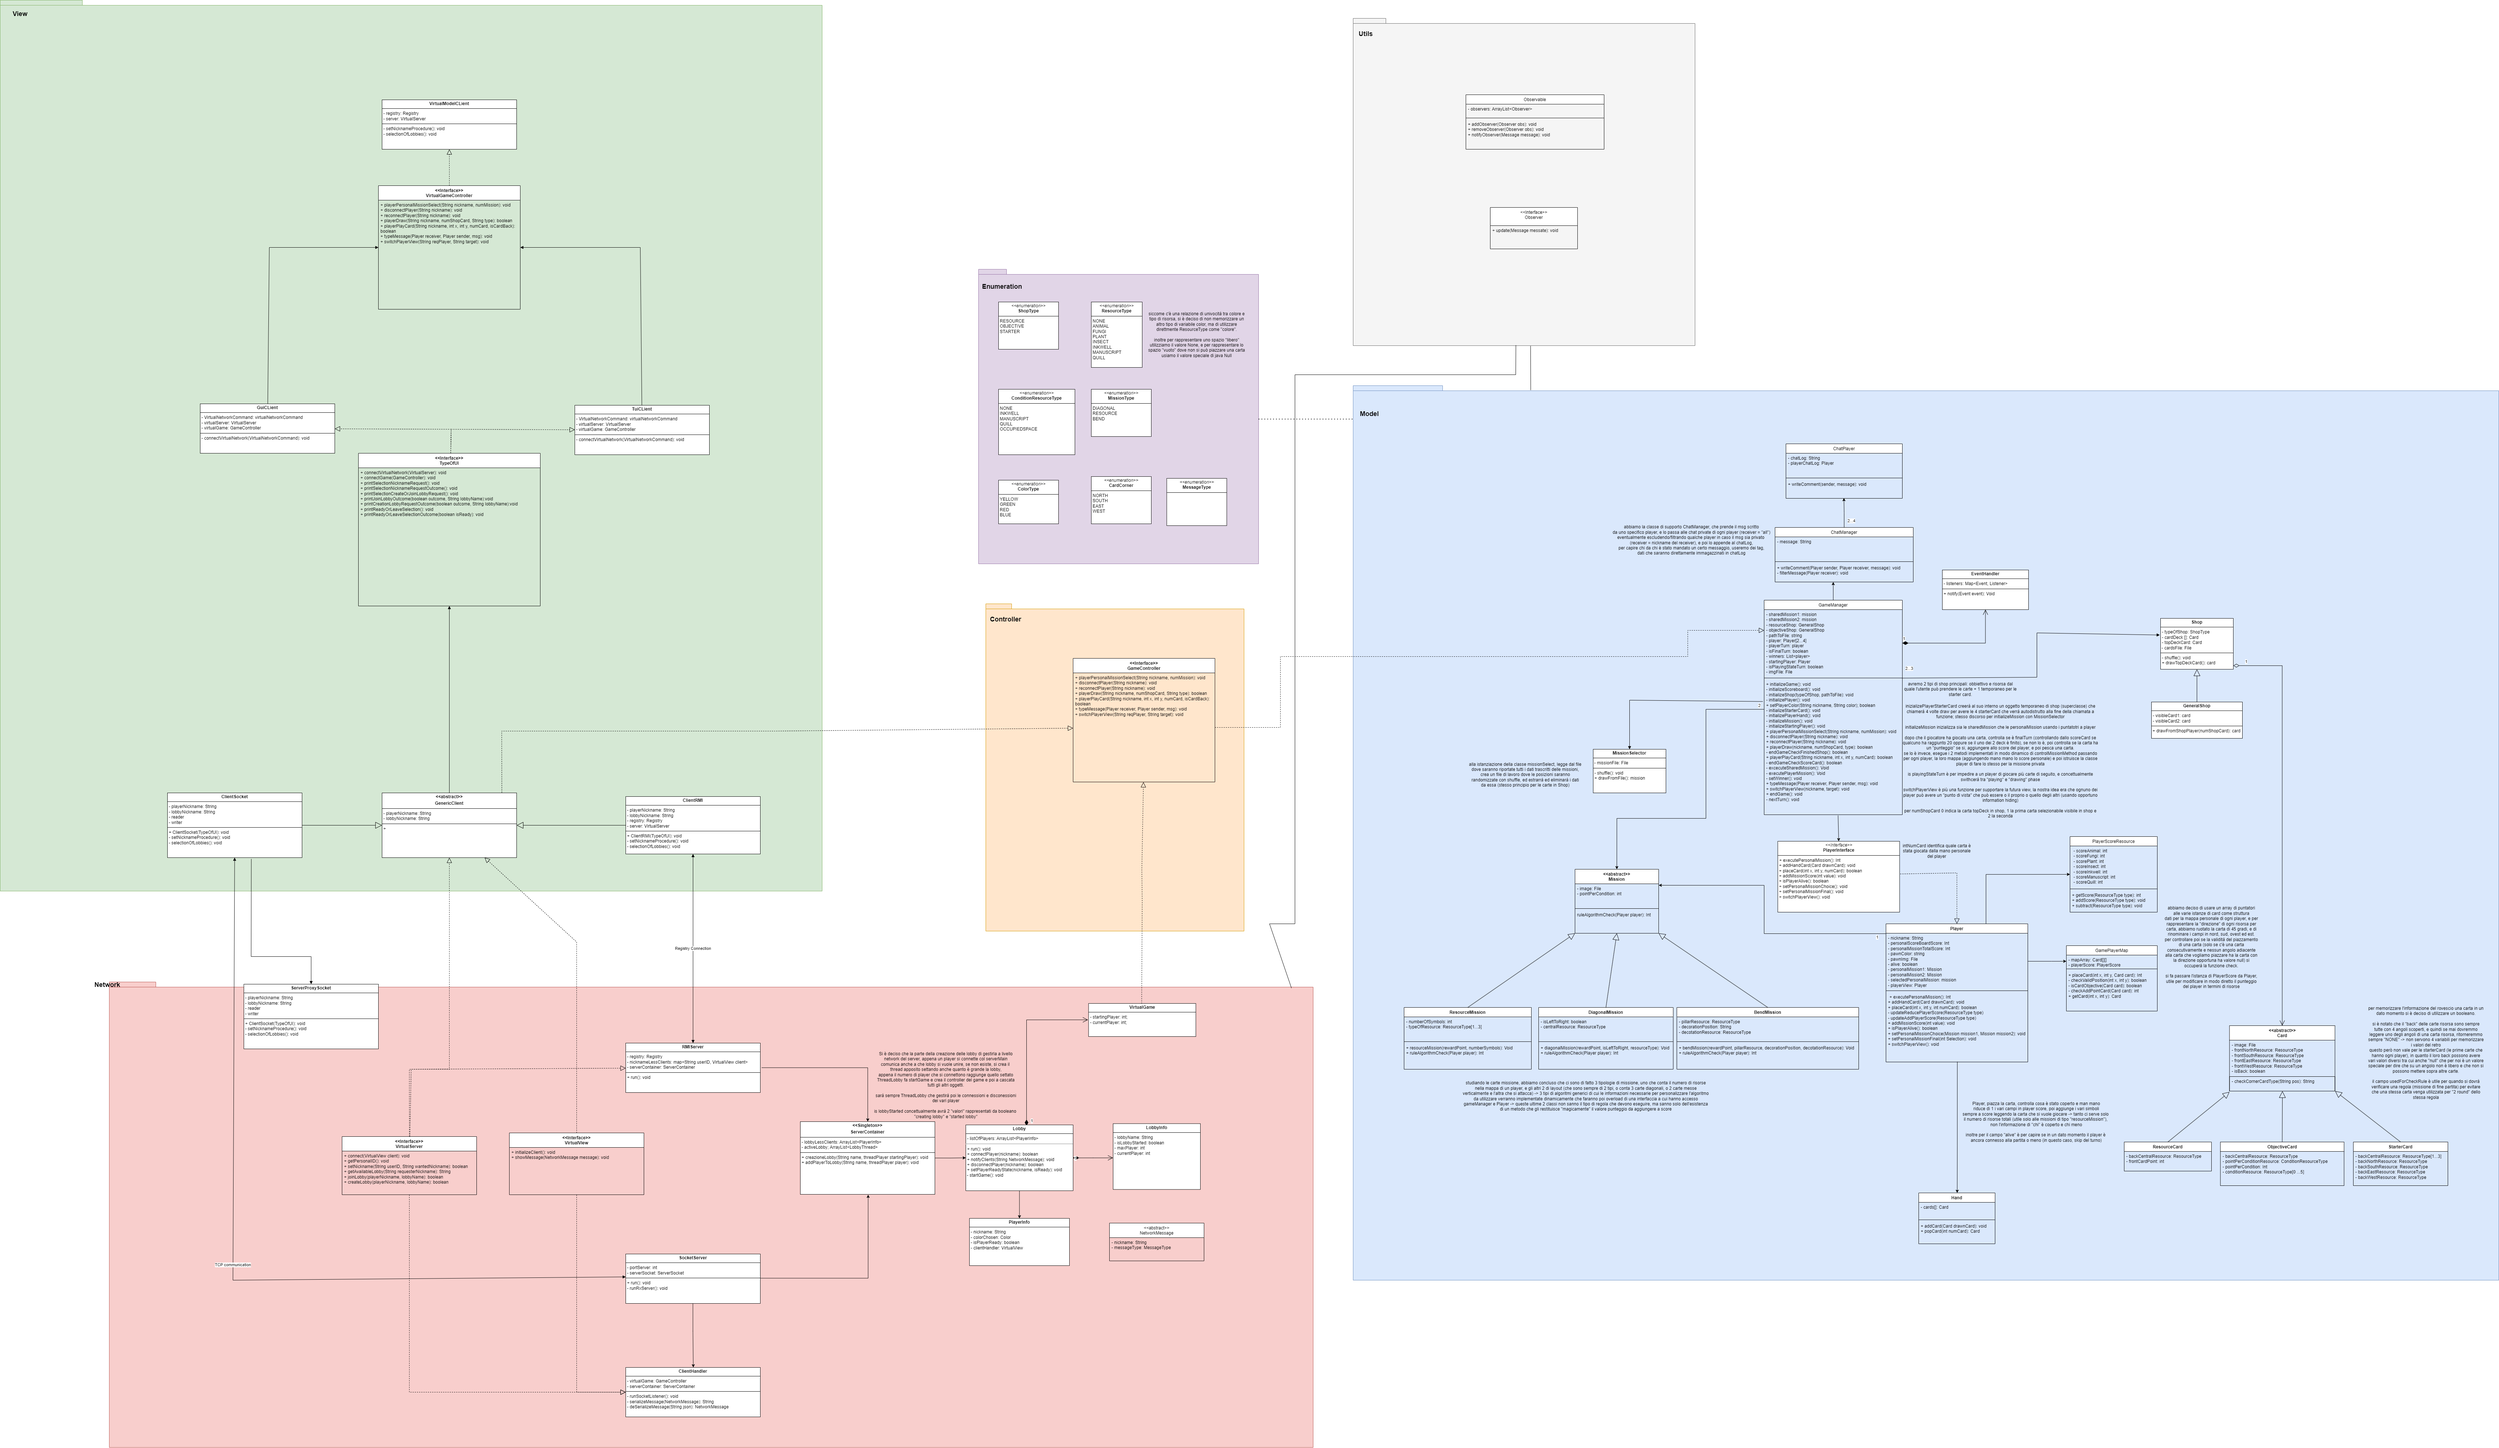
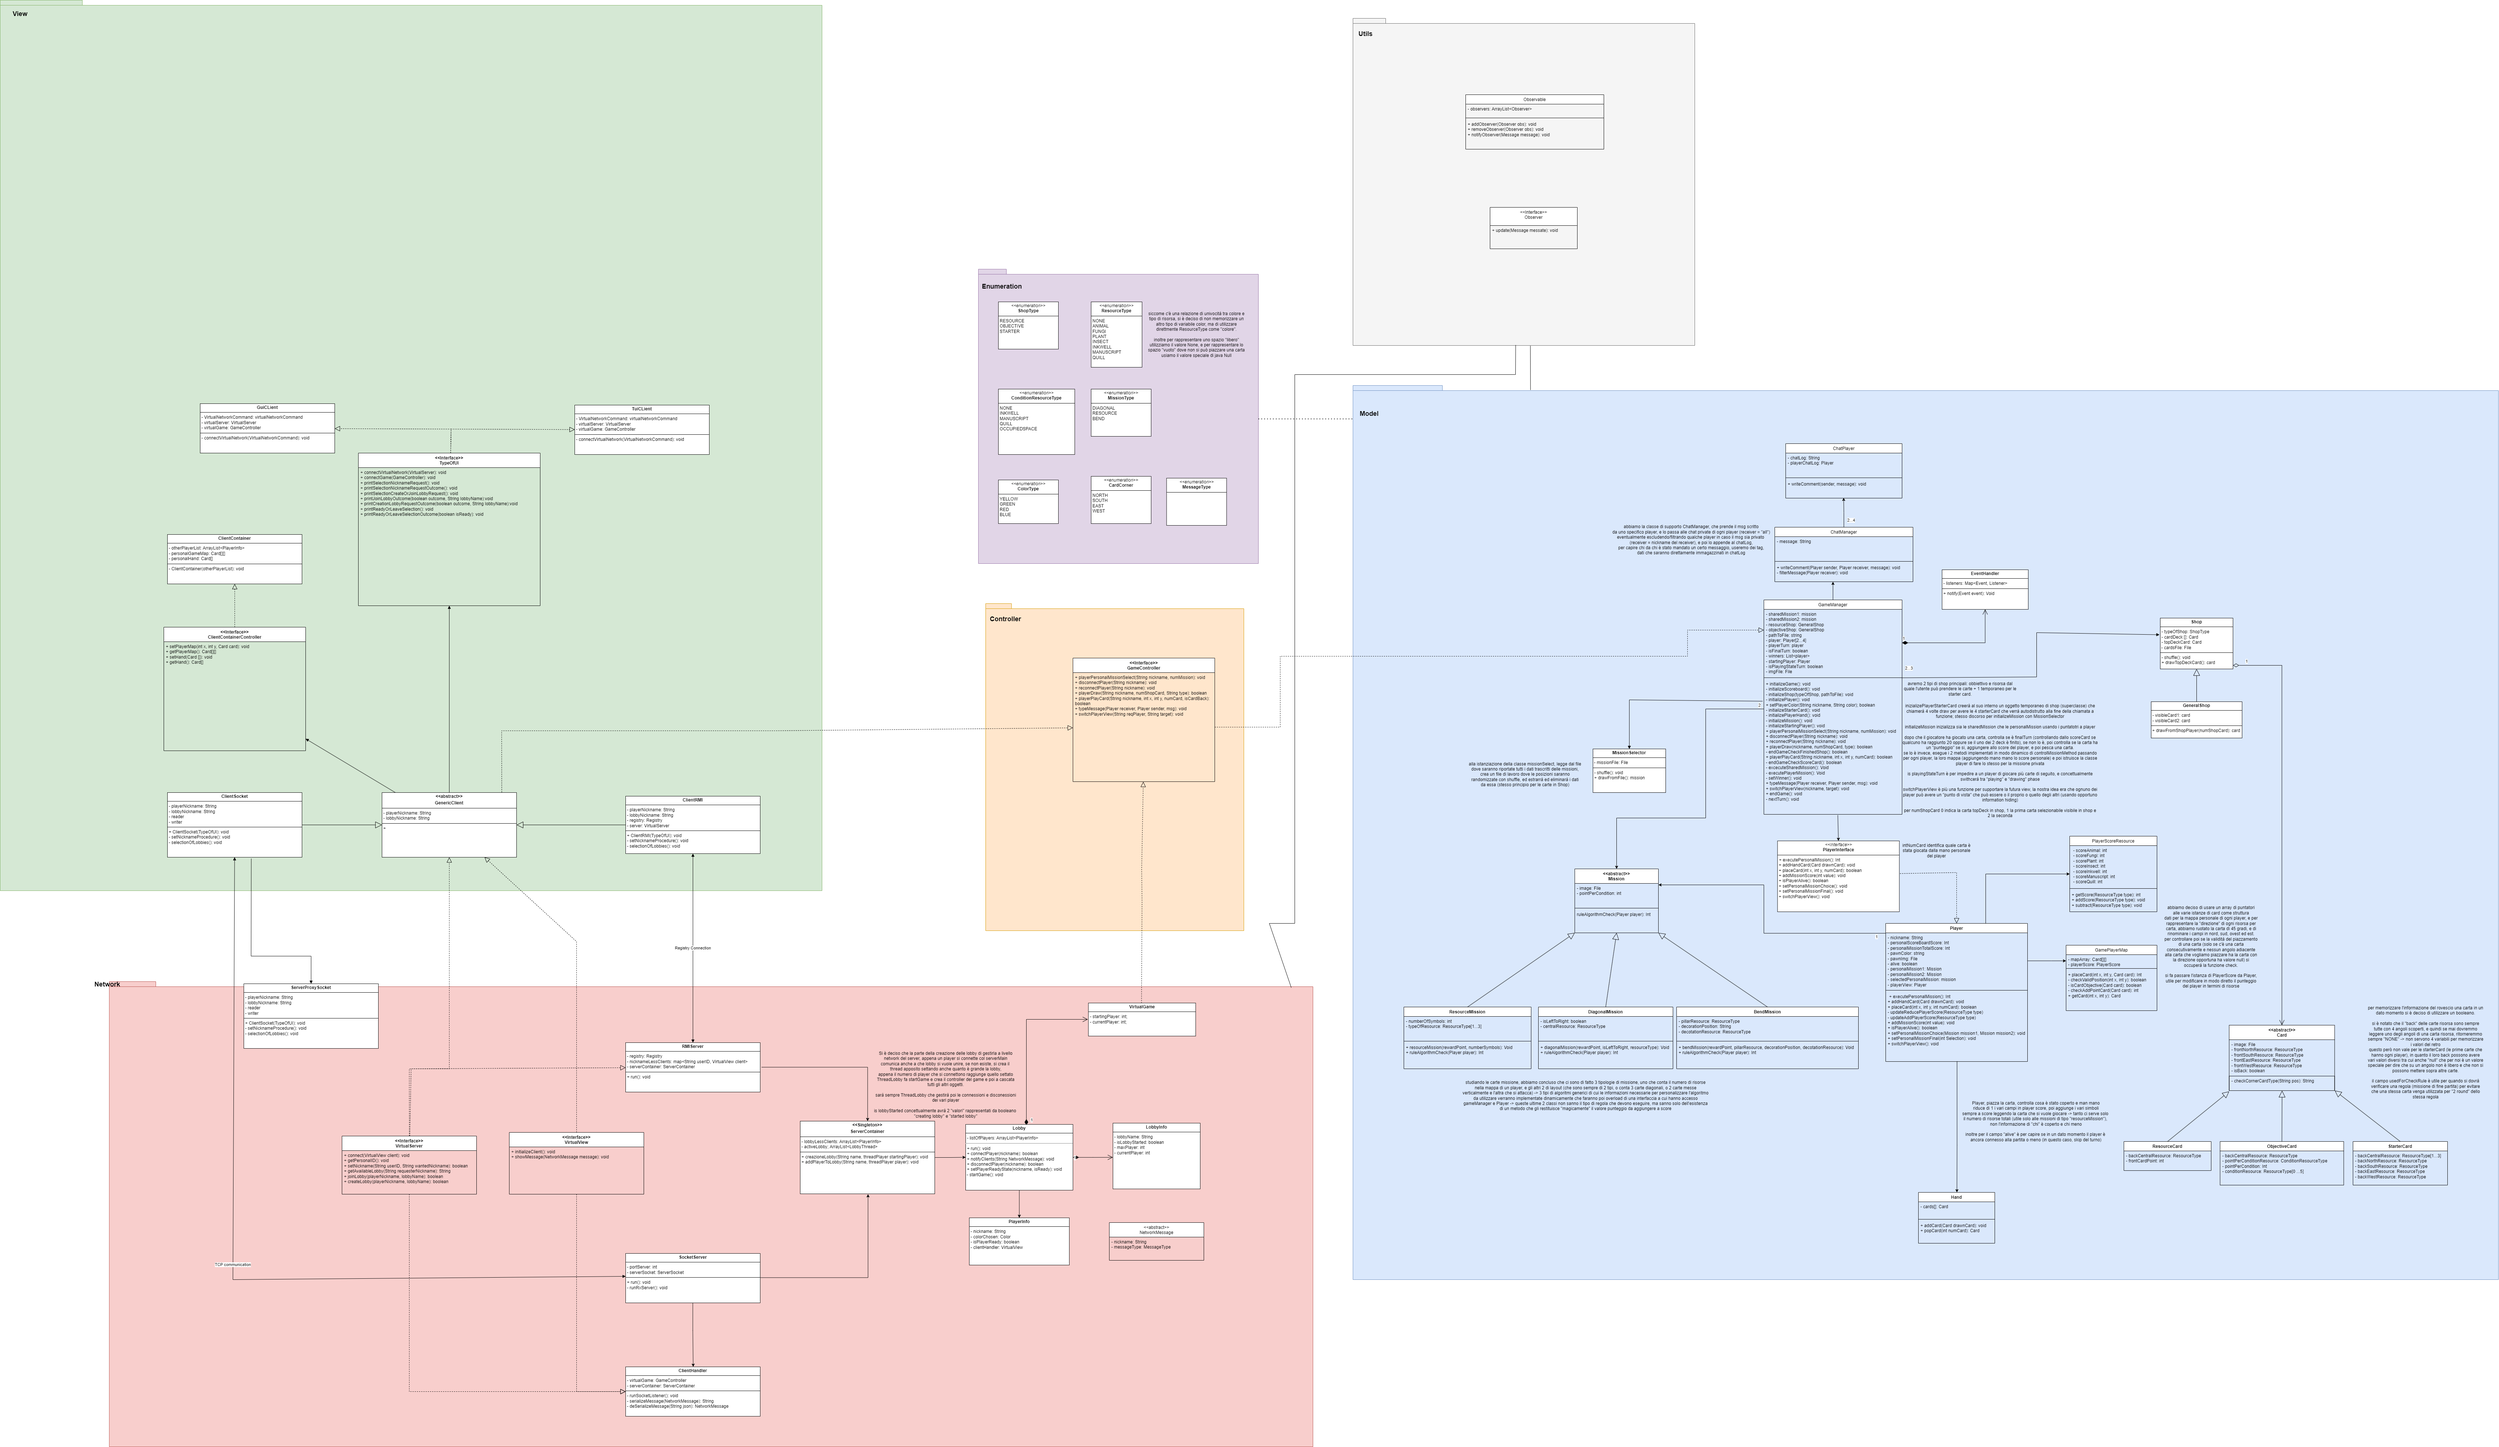
added client container

diff --git a/CodexNaturalis/src/main/java/it/polimi/codexnaturalis/view/GenericClient.java b/CodexNaturalis/src/main/java/it/polimi/codexnaturalis/view/GenericClient.java
@@ -4,6 +4,8 @@ import it.polimi.codexnaturalis.controller.GameController;
 import it.polimi.codexnaturalis.network.communicationInterfaces.VirtualServer;
 import it.polimi.codexnaturalis.network.communicationInterfaces.VirtualView;
 import it.polimi.codexnaturalis.network.util.PlayerInfo;
+import it.polimi.codexnaturalis.view.VirtualModel.ClientContainer;
+import it.polimi.codexnaturalis.view.VirtualModel.ClientContainerController;
 
 import java.rmi.RemoteException;
 import java.rmi.server.UnicastRemoteObject;
@@ -13,7 +15,7 @@ public abstract class GenericClient extends UnicastRemoteObject implements GameC
     protected String playerNickname;
     protected String lobbyNickname;
     protected TypeOfUI typeOfUI;
-    ArrayList<PlayerInfo> listOtherPlayer;
+    ClientContainerController clientContainerController;
 
     public GenericClient(TypeOfUI typeOfUI) throws RemoteException  {
         this.typeOfUI = typeOfUI;
@@ -42,9 +44,10 @@ public abstract class GenericClient extends UnicastRemoteObject implements GameC
         typeOfUI.printReadyOrLeaveSelection();
     }
 
-    public void joinPlayerToGame(GameController virtualGameController, ArrayList<PlayerInfo> listOtherPlayer) {
+    protected void joinPlayerToGame(GameController virtualGameController, ArrayList<PlayerInfo> listOtherPlayer) {
         System.out.print("Game Has Started!");
-        typeOfUI.connectGameController(virtualGameController);
-        this.listOtherPlayer = listOtherPlayer;
+        clientContainerController = new ClientContainer(listOtherPlayer);
+
+        typeOfUI.connectGameController(virtualGameController, clientContainerController);
     }
 }

diff --git a/CodexNaturalis/src/main/java/it/polimi/codexnaturalis/view/TypeOfUI.java b/CodexNaturalis/src/main/java/it/polimi/codexnaturalis/view/TypeOfUI.java
@@ -3,6 +3,7 @@ package it.polimi.codexnaturalis.view;
 import it.polimi.codexnaturalis.controller.GameController;
 import it.polimi.codexnaturalis.network.communicationInterfaces.VirtualServer;
 import it.polimi.codexnaturalis.network.lobby.LobbyInfo;
+import it.polimi.codexnaturalis.view.VirtualModel.ClientContainerController;
 
 import java.rmi.RemoteException;
 import java.util.ArrayList;
@@ -10,7 +11,7 @@ import java.util.ArrayList;
 public interface TypeOfUI {
     // collegare la UI alla network
     void connectVirtualNetwork(VirtualServer virtualNetworkCommand);
-    void connectGameController(GameController virtualGame);
+    void connectGameController(GameController virtualGame, ClientContainerController clientContainerController);
     void printSelectionNicknameRequest() throws RemoteException;
     void printSelectionNicknameRequestOutcome(boolean positiveOutcome, String nickname);
     void printSelectionCreateOrJoinLobbyRequest() throws RemoteException;

diff --git a/CodexNaturalis/src/main/java/it/polimi/codexnaturalis/view/VirtualModel/ClientContainer.java b/CodexNaturalis/src/main/java/it/polimi/codexnaturalis/view/VirtualModel/ClientContainer.java
@@ -1,0 +1,36 @@
+package it.polimi.codexnaturalis.view.VirtualModel;
+
+import it.polimi.codexnaturalis.model.shop.card.Card;
+import it.polimi.codexnaturalis.network.util.PlayerInfo;
+
+import java.util.ArrayList;
+
+public class ClientContainer implements ClientContainerController {
+    private ArrayList<PlayerInfo> otherPlayerList;
+    private Card[][] personalGameMap;
+    private Card[] personalHand;
+
+    public ClientContainer(ArrayList<PlayerInfo> otherPlayerList) {
+        this.otherPlayerList = otherPlayerList;
+    }
+
+    @Override
+    public void setPlayerMap(int x, int y, Card card) {
+        personalGameMap[x][y] = card;
+    }
+
+    @Override
+    public Card[][] getPlayerMap() {
+        return personalGameMap;
+    }
+
+    @Override
+    public void setHand(Card[] hand) {
+        personalHand = hand;
+    }
+
+    @Override
+    public Card[] getHand() {
+        return personalHand;
+    }
+}

diff --git a/CodexNaturalis/src/main/java/it/polimi/codexnaturalis/view/TuiClient.java b/CodexNaturalis/src/main/java/it/polimi/codexnaturalis/view/TuiClient.java
@@ -3,6 +3,7 @@ package it.polimi.codexnaturalis.view;
 import it.polimi.codexnaturalis.controller.GameController;
 import it.polimi.codexnaturalis.network.communicationInterfaces.VirtualServer;
 import it.polimi.codexnaturalis.network.lobby.LobbyInfo;
+import it.polimi.codexnaturalis.view.VirtualModel.ClientContainerController;
 
 import java.rmi.RemoteException;
 import java.util.ArrayList;
@@ -23,7 +24,7 @@ public class TuiClient implements TypeOfUI {
     }
 
     @Override
-    public void connectGameController(GameController virtualGame) {
+    public void connectGameController(GameController virtualGame, ClientContainerController clientContainerController) {
         this.virtualGame = virtualGame;
     }
 

diff --git a/CodexNaturalis/src/main/java/it/polimi/codexnaturalis/view/GuiClient.java b/CodexNaturalis/src/main/java/it/polimi/codexnaturalis/view/GuiClient.java
@@ -3,6 +3,7 @@ package it.polimi.codexnaturalis.view;
 import it.polimi.codexnaturalis.view.GUI.Menu;
 import it.polimi.codexnaturalis.controller.GameController;
 import it.polimi.codexnaturalis.network.communicationInterfaces.VirtualServer;
+import it.polimi.codexnaturalis.view.VirtualModel.ClientContainerController;
 
 import java.rmi.RemoteException;
 
@@ -19,8 +20,7 @@ public class GuiClient implements TypeOfUI {
     }
 
     @Override
-    public void connectGameController(GameController virtualGame) {
-    }
+    public void connectGameController(GameController virtualGame, ClientContainerController clientContainerController) {}
 
     @Override
     public void printSelectionNicknameRequest() {

diff --git a/CodexNaturalis/src/main/java/it/polimi/codexnaturalis/view/VirtualModel/ClientContainerController.java b/CodexNaturalis/src/main/java/it/polimi/codexnaturalis/view/VirtualModel/ClientContainerController.java
@@ -1,0 +1,10 @@
+package it.polimi.codexnaturalis.view.VirtualModel;
+
+import it.polimi.codexnaturalis.model.shop.card.Card;
+
+public interface ClientContainerController {
+    void setPlayerMap(int x, int y, Card card);
+    Card[][] getPlayerMap();
+    void setHand(Card[] hand);
+    Card[] getHand();
+}
